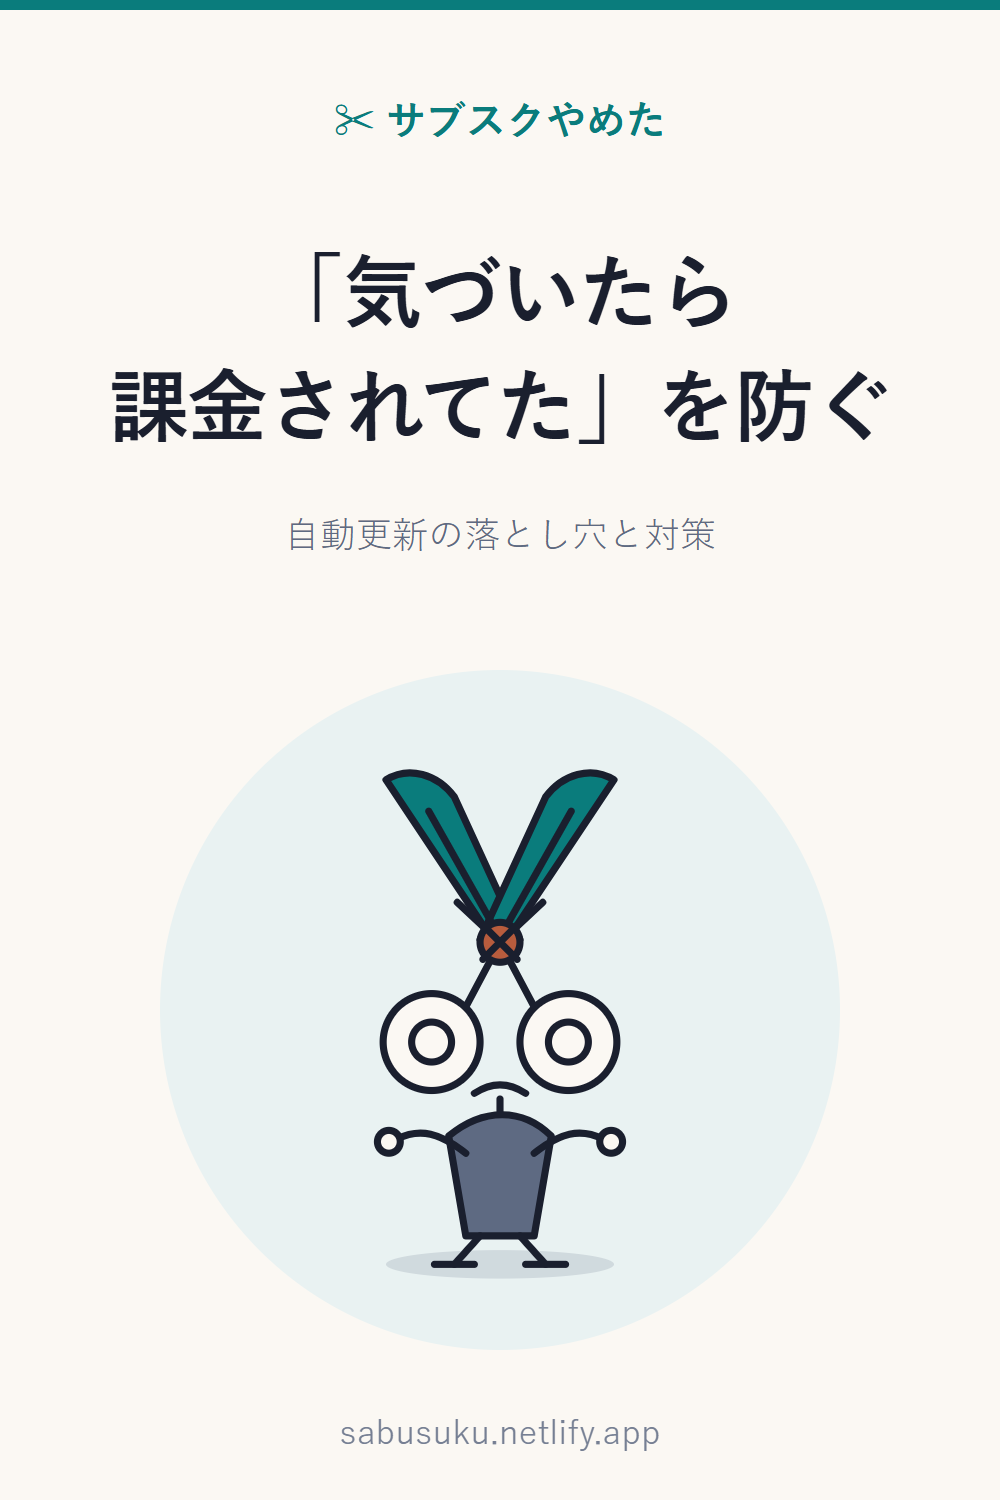
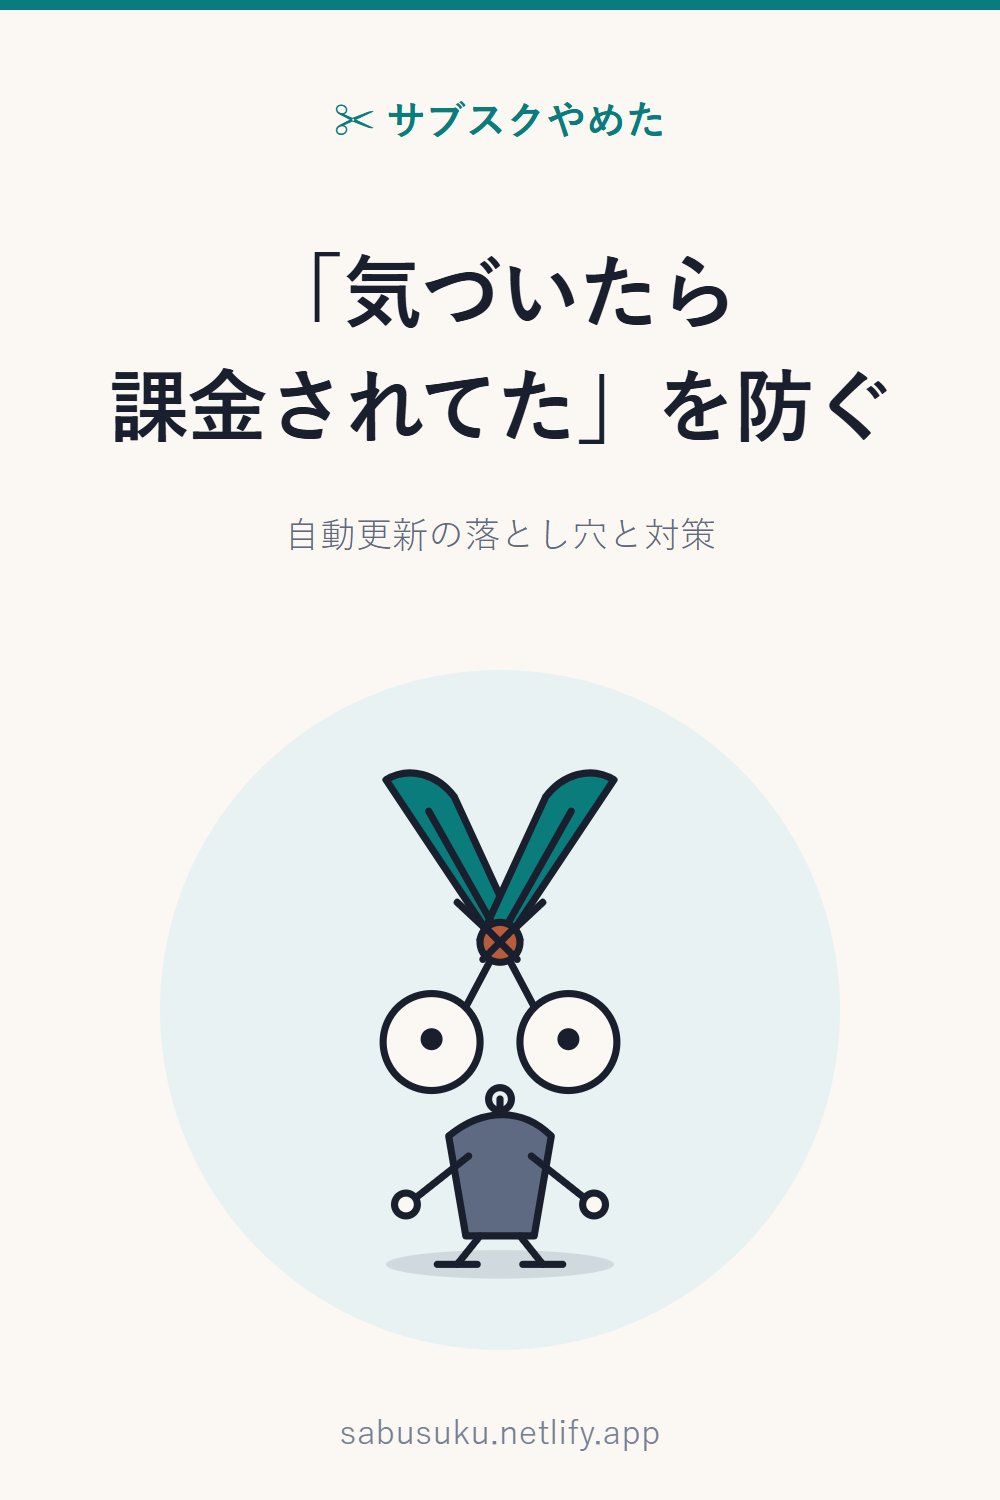
feat(marketing): チョキくんの表情システムを実装（藤子不二雄風・目で感情）＋20ピン再生成
俊雄さんの art direction：表情は"目玉"で作る／藤子不二雄(ドラえもん・パーマン)の
単純線・点の目を参照。faceMascot()＋FACESパレットで内側○と口を描き替えて表情生成：
jito(ジト目=見抜く/皮肉・ブランド人格に最適)・sparkle(キラキラ=憧れ)・shock(点目=ハッ)・
troubled(＞＜)・wink・lookRight/Up(視線)・determined。
- 20ピンを各テーマに合う表情で再生成（jito/sparkle/troubled/shock等を割当）
- パレット参照画像 docs/pinterest/choki-faces.png
- ID衝突(同一id複数SVGの<use>)はuid付与で回避

diff --git a/docs/pinterest/pins-manifest.md b/docs/pinterest/pins-manifest.md
@@ -5,23 +5,23 @@
 
 | 画像 | 表情 | 見出し | リンク先（UTM付き） |
 |---|---|---|---|
-| pin-tracker.png | lost | 使ってないサブスク、年でいくら払ってる? | https://sabusuku.netlify.app/tracker?utm_source=pinterest&utm_medium=social&utm_campaign=fixed-cost |
-| pin-buyout.png | cutting | 月額をやめて、買い切りに。 | https://sabusuku.netlify.app/yamete-kau?utm_source=pinterest&utm_medium=social&utm_campaign=buyout |
-| pin-games.png | thinking | 「解約できない」は、意志の弱さじゃない。 | https://sabusuku.netlify.app/games?utm_source=pinterest&utm_medium=social&utm_campaign=psychology |
-| pin-g-sunk.png | thinking | 8ヶ月払って、一度も開いてない。 | https://sabusuku.netlify.app/games/sunk-cost?utm_source=pinterest&utm_medium=social&utm_campaign=psychology |
-| pin-g-status.png | lost | 解約3クリック、継続0クリック。 | https://sabusuku.netlify.app/games/status-quo?utm_source=pinterest&utm_medium=social&utm_campaign=psychology |
-| pin-g-loss.png | thinking | 「今やめると損」で、足が止まってない? | https://sabusuku.netlify.app/games/loss-aversion?utm_source=pinterest&utm_medium=social&utm_campaign=psychology |
-| pin-g-default.png | lost | チェックは、最初から入ってた。 | https://sabusuku.netlify.app/games/default-effect?utm_source=pinterest&utm_medium=social&utm_campaign=psychology |
-| pin-g-plan.png | thinking | 「来月こそ使う」、毎月言ってない? | https://sabusuku.netlify.app/games/planning-fallacy?utm_source=pinterest&utm_medium=social&utm_campaign=psychology |
-| pin-g-decoy.png | thinking | なぜいつも、真ん中のプラン? | https://sabusuku.netlify.app/games/decoy-effect?utm_source=pinterest&utm_medium=social&utm_campaign=psychology |
-| pin-b-whycant.png | thinking | サブスクは、わざとやめにくい。 | https://sabusuku.netlify.app/blog/why-cant-cancel?utm_source=pinterest&utm_medium=social&utm_campaign=blog |
-| pin-b-retention.png | cutting | 引き止め画面で、心を折られない。 | https://sabusuku.netlify.app/blog/how-to-survive-retention-screen?utm_source=pinterest&utm_medium=social&utm_campaign=blog |
-| pin-b-yearly.png | thinking | 年契約と月契約、結局どっちが得? | https://sabusuku.netlify.app/blog/monthly-vs-yearly-plan?utm_source=pinterest&utm_medium=social&utm_campaign=blog |
-| pin-b-whencancel.png | thinking | 解約は、いつ押すのが正解? | https://sabusuku.netlify.app/blog/when-to-cancel?utm_source=pinterest&utm_medium=social&utm_campaign=blog |
-| pin-b-autorenew.png | lost | 「気づいたら課金されてた」を防ぐ | https://sabusuku.netlify.app/blog/auto-renewal-pitfalls?utm_source=pinterest&utm_medium=social&utm_campaign=blog |
-| pin-b-gym.png | cutting | ジムをやめて、自宅トレに。 | https://sabusuku.netlify.app/blog/gym-cancel-to-home-training?utm_source=pinterest&utm_medium=social&utm_campaign=blog |
-| pin-b-adobe.png | cutting | Adobe CCが高い人へ。買い切りで済む線。 | https://sabusuku.netlify.app/blog/adobe-cc-to-buyout-alternative?utm_source=pinterest&utm_medium=social&utm_campaign=blog |
-| pin-b-budget.png | thinking | 家計の見直し、どこから手をつける? | https://sabusuku.netlify.app/blog/family-budget-review-order?utm_source=pinterest&utm_medium=social&utm_campaign=blog |
-| pin-d-coffee.png | smile | やめた月額で、コーヒー定期便。 | https://sabusuku.netlify.app/discover/coffee-subscription?utm_source=pinterest&utm_medium=social&utm_campaign=compare |
-| pin-d-frozen.png | thinking | 冷凍弁当・宅食、自炊と比べてどう? | https://sabusuku.netlify.app/discover/frozen-meal?utm_source=pinterest&utm_medium=social&utm_campaign=compare |
-| pin-d-water.png | thinking | ウォーターサーバー、浄水ポットとどっち? | https://sabusuku.netlify.app/discover/water-server?utm_source=pinterest&utm_medium=social&utm_campaign=compare |
+| pin-tracker.png | jito | 使ってないサブスク、年でいくら払ってる? | https://sabusuku.netlify.app/tracker?utm_source=pinterest&utm_medium=social&utm_campaign=fixed-cost |
+| pin-buyout.png | sparkle | 月額をやめて、買い切りに。 | https://sabusuku.netlify.app/yamete-kau?utm_source=pinterest&utm_medium=social&utm_campaign=buyout |
+| pin-games.png | lookRight | 「解約できない」は、意志の弱さじゃない。 | https://sabusuku.netlify.app/games?utm_source=pinterest&utm_medium=social&utm_campaign=psychology |
+| pin-g-sunk.png | troubled | 8ヶ月払って、一度も開いてない。 | https://sabusuku.netlify.app/games/sunk-cost?utm_source=pinterest&utm_medium=social&utm_campaign=psychology |
+| pin-g-status.png | jito | 解約3クリック、継続0クリック。 | https://sabusuku.netlify.app/games/status-quo?utm_source=pinterest&utm_medium=social&utm_campaign=psychology |
+| pin-g-loss.png | troubled | 「今やめると損」で、足が止まってない? | https://sabusuku.netlify.app/games/loss-aversion?utm_source=pinterest&utm_medium=social&utm_campaign=psychology |
+| pin-g-default.png | shock | チェックは、最初から入ってた。 | https://sabusuku.netlify.app/games/default-effect?utm_source=pinterest&utm_medium=social&utm_campaign=psychology |
+| pin-g-plan.png | wink | 「来月こそ使う」、毎月言ってない? | https://sabusuku.netlify.app/games/planning-fallacy?utm_source=pinterest&utm_medium=social&utm_campaign=psychology |
+| pin-g-decoy.png | jito | なぜいつも、真ん中のプラン? | https://sabusuku.netlify.app/games/decoy-effect?utm_source=pinterest&utm_medium=social&utm_campaign=psychology |
+| pin-b-whycant.png | jito | サブスクは、わざとやめにくい。 | https://sabusuku.netlify.app/blog/why-cant-cancel?utm_source=pinterest&utm_medium=social&utm_campaign=blog |
+| pin-b-retention.png | determined | 引き止め画面で、心を折られない。 | https://sabusuku.netlify.app/blog/how-to-survive-retention-screen?utm_source=pinterest&utm_medium=social&utm_campaign=blog |
+| pin-b-yearly.png | lookRight | 年契約と月契約、結局どっちが得? | https://sabusuku.netlify.app/blog/monthly-vs-yearly-plan?utm_source=pinterest&utm_medium=social&utm_campaign=blog |
+| pin-b-whencancel.png | lookUp | 解約は、いつ押すのが正解? | https://sabusuku.netlify.app/blog/when-to-cancel?utm_source=pinterest&utm_medium=social&utm_campaign=blog |
+| pin-b-autorenew.png | shock | 「気づいたら課金されてた」を防ぐ | https://sabusuku.netlify.app/blog/auto-renewal-pitfalls?utm_source=pinterest&utm_medium=social&utm_campaign=blog |
+| pin-b-gym.png | sparkle | ジムをやめて、自宅トレに。 | https://sabusuku.netlify.app/blog/gym-cancel-to-home-training?utm_source=pinterest&utm_medium=social&utm_campaign=blog |
+| pin-b-adobe.png | lookRight | Adobe CCが高い人へ。買い切りで済む線。 | https://sabusuku.netlify.app/blog/adobe-cc-to-buyout-alternative?utm_source=pinterest&utm_medium=social&utm_campaign=blog |
+| pin-b-budget.png | lookUp | 家計の見直し、どこから手をつける? | https://sabusuku.netlify.app/blog/family-budget-review-order?utm_source=pinterest&utm_medium=social&utm_campaign=blog |
+| pin-d-coffee.png | sparkle | やめた月額で、コーヒー定期便。 | https://sabusuku.netlify.app/discover/coffee-subscription?utm_source=pinterest&utm_medium=social&utm_campaign=compare |
+| pin-d-frozen.png | lookRight | 冷凍弁当・宅食、自炊と比べてどう? | https://sabusuku.netlify.app/discover/frozen-meal?utm_source=pinterest&utm_medium=social&utm_campaign=compare |
+| pin-d-water.png | lookRight | ウォーターサーバー、浄水ポットとどっち? | https://sabusuku.netlify.app/discover/water-server?utm_source=pinterest&utm_medium=social&utm_campaign=compare |

diff --git a/docs/lessons.md b/docs/lessons.md
@@ -18,7 +18,7 @@
 ### 永続化
 - 表情の使い分け＝`docs/PINTEREST_PREP.md` §5.5。生成＝`scripts/seo/gen-pin-samples.mjs`・サンプル＝`docs/pinterest/samples/`。
 - 横展開候補：Shortsのナビゲーター役、トラッカー結果のシェア画像、SNSアバター、404/empty以外の各広報面にもチョキくんを。
-- **表情は"目玉"で増やせる（俊雄さん 2026-06-14）**：固定5表情に縛られず、目＝持ち手リング `circle(76,113)/(124,113) r17＋瞳r7`、口＝`M91 130q9 7 18 0` を差し替えれば、驚き/ウインク/半目等をコードで量産可能（新SVG不要）。`gen-pin-samples.mjs` に eye-variant 関数を足せば表情バリエーションを無限化できる＝今後の量産レバー。
+- **表情は"目玉"で作る＝実装済（俊雄さん 2026-06-14）**：`gen-pin-samples.mjs` の `faceMascot()`＋`FACES`パレットが、内側○(76,113)/(124,113)と口(M91 130q9 7 18 0)を描き替えて表情を生成。参照＝**藤子不二雄（ドラえもん/パーマン）の単純線・点の目**：jito(ジト目=見抜く/皮肉・ブランド人格にドンピシャ)/sparkle(キラキラ=憧れ)/shock(点目=ハッと気づき)/troubled(＞＜)/wink/look(視線)/determined。固定ポーズSVG不要で表情を無限に増やせる量産レバー。パレット一覧＝`docs/pinterest/choki-faces.png`。⚠同一ページに同じ`id="front-scissors-head"`のSVGを複数置くと`<use>`が先頭を参照するID衝突→uid付与で回避（実ピンは1枚ずつ描画で無害）。
 - 本番20ピン（index/games/blog/discover・確定URL）を `docs/pinterest/samples/` に生成、`docs/pinterest/pins-manifest.md` にピン→URL(UTM)対応表。投稿は俊雄さんの原子操作（アカウント＋ドメイン認証）。
 
 ---
